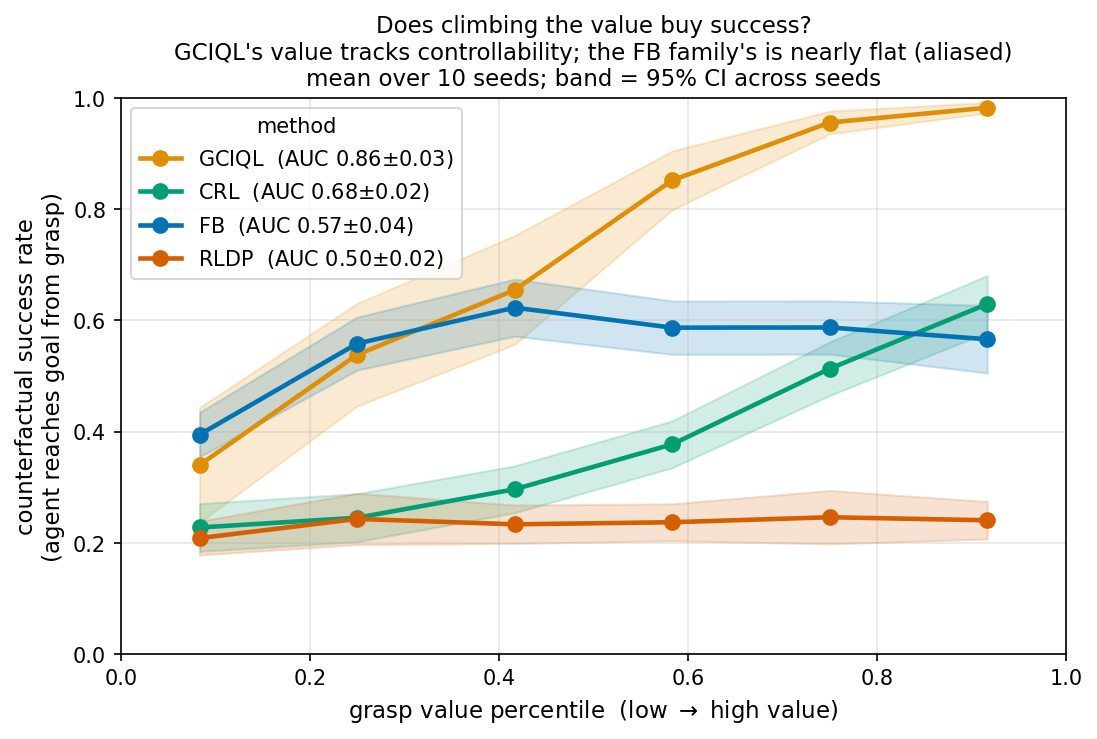
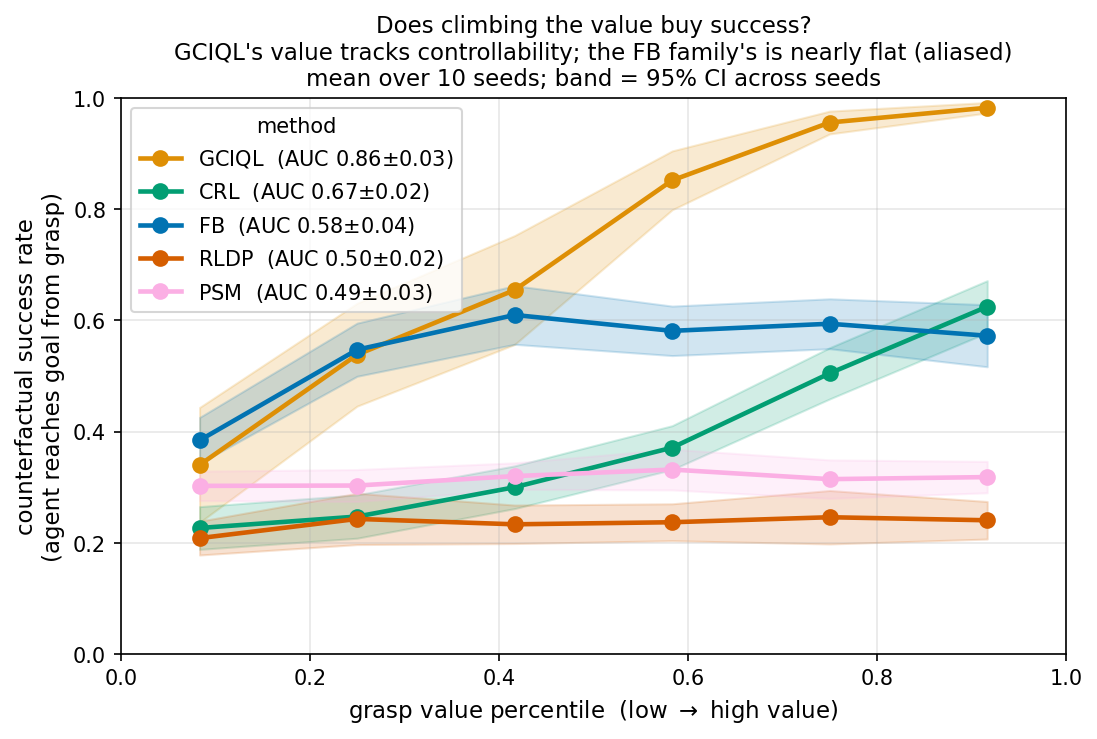
paper(rlbrew): add PSM to the counterfactual value-test curve
fig_cf_value_curve was hardcoded to 4 methods. Added PSM from its canonical
ortho_coef=1000 records (per-task rank-AUC 0.49, matching tab:cf_value): the
curve is flat at ~0.31 across the value range -- climbing PSM's value buys no
counterfactual success. Figure ref -> _new; plot METHODS += psm.

Changed region(s): [[0.124, 0.3735, 0.9298, 0.747], [0.2789, 0.249, 0.3719, 0.3112]]

diff --git a/PAPER/rlbrew/content/results.tex b/PAPER/rlbrew/content/results.tex
@@ -110,7 +110,7 @@ A matched readout ablation would be needed to attribute the difference specifica
 \end{minipage}\hfill
 \begin{minipage}[t]{0.48\linewidth}
   \centering
-  \includegraphics[width=\linewidth,trim={0.2cm 0.2cm 0.2cm 1.12cm},clip]{fig_cf_value_curve.png}
+  \includegraphics[width=\linewidth,trim={0.2cm 0.2cm 0.2cm 1.12cm},clip]{fig_cf_value_curve_new.png}
   \caption{\textbf{Counterfactual value test.} For $200$ in-hand grasps reset into the simulator and rolled out under each agent's policy, success rate as a function of the grasp state's value percentile. 
   }
   \label{fig:cf_value}

diff --git a/scripts/figures/plot_cf_value_curve.py b/scripts/figures/plot_cf_value_curve.py
@@ -31,7 +31,7 @@ OUT = REPO / "PAPER" / "rlbrew" / "figures"
 sns.set_palette("colorblind")
 _CB = sns.color_palette("colorblind").as_hex()
 METHODS = [("gciql", "GCIQL", _CB[1]), ("crl", "CRL", _CB[2]),
-           ("fb", "FB", _CB[0]), ("rldp", "RLDP", _CB[3])]
+           ("fb", "FB", _CB[0]), ("rldp", "RLDP", _CB[3]), ("psm", "PSM", _CB[6])]
 NBINS = 6
 
 
